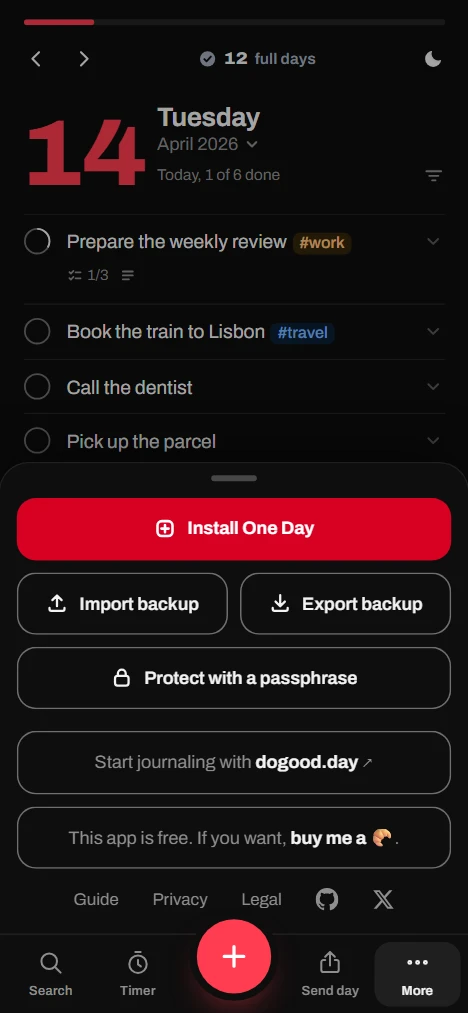
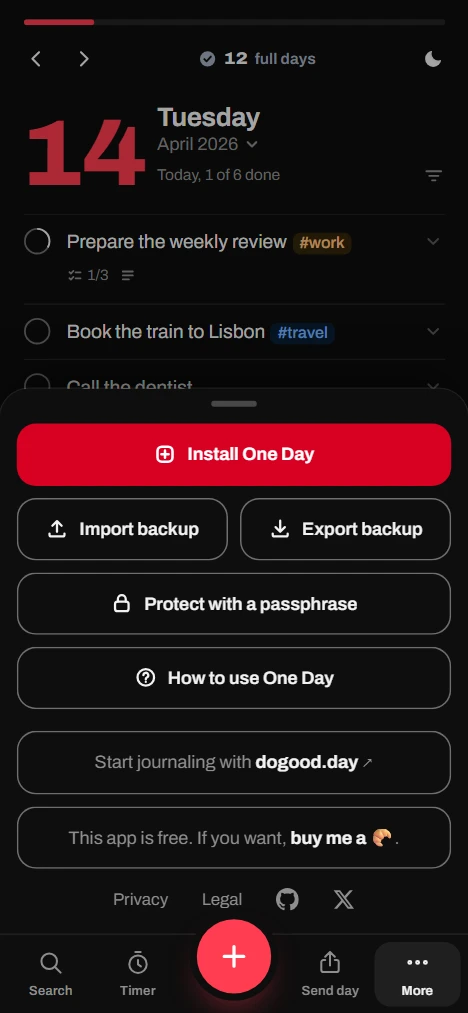
More on a phone: "How to use One Day" as a button of its own, under the backups and the lock
The guide was a small link among the legal ones at the bottom of More; it is now a button the width of the drawer,
with the guide's question mark, opening in the same window (back returns to the day). The links at the bottom keep
Privacy, Legal, GitHub and X. Nothing changes on a computer, where a floating window's drawer opens it in a tab.
The guide says so, its picture of More is retaken, and llms-full.txt follows.

diff --git a/public/app.js b/public/app.js
@@ -625,6 +625,7 @@ try {
   /* rows */
   const IC = {
     search: '<svg viewBox="0 0 16 16" aria-hidden="true"><circle cx="7.25" cy="7.25" r="4.5"/><path d="m10.6 10.6 3.15 3.15"/></svg>',
+    help: '<svg viewBox="0 0 16 16" aria-hidden="true"><circle cx="8" cy="8" r="5.8"/><path d="M6.32 6.48a1.72 1.72 0 1 1 2.44 1.56c-.48.22-.76.62-.76 1.12v.24M8 11.16v.04"/></svg>',
     tick: '<svg viewBox="0 0 12 12"><path d="M2.6 6.3 5 8.6l4.4-5"/></svg>',
     mv: '<svg viewBox="0 0 20 20"><path d="M4 10h11.5M11 5.5l4.5 4.5-4.5 4.5"/></svg>',
     rm: '<svg viewBox="0 0 20 20"><path d="m5.5 5.5 9 9m0-9-9 9"/></svg>',
@@ -6411,7 +6412,13 @@ try {
     const f = document.getElementById('foot'),
       promo = f && f.querySelector('.promo'),
       kofi = f && f.querySelector('.kofi'),
-      links = f ? [...f.querySelectorAll('nav a')].map(x => x.cloneNode(true).outerHTML).join('') : '',
+      // the guide has its own button above; the links at the bottom keep the legal pages and the source
+      links = f
+        ? [...f.querySelectorAll('nav a')]
+            .filter(x => !x.matches('.gd'))
+            .map(x => x.cloneNode(true).outerHTML)
+            .join('')
+        : '',
       // in a narrow floating window, what the bar let go of comes first
       held = pipNarrow(),
       dark = themeNow() === 'dark';
@@ -6425,6 +6432,9 @@ try {
       `<div class="sbk"><button type="button" class="sbk-b" data-act="import">${IC.up}<span>Import backup</span></button>` +
       `<button type="button" class="sbk-b" data-act="export">${IC.down}<span>${canTop ? 'Export backup' : 'Copy backup'}</span></button></div>` +
       (CAN_LOCK ? lockBtns() : '') +
+      // the guide, a button of its own under the backups and the lock: in this window on a phone (back returns to the
+      // day), in a tab of its own from a floating window
+      `<div class="sgd"><a class="sbk-b" href="guide/"${TOUCH ? '' : ' target="_blank" rel="noopener"'}>${IC.help}<span>How to use One Day</span></a></div>` +
       (promo
         ? `<a class="spromo" href="${esc(promo.href)}" target="_blank" rel="noopener" referrerpolicy="strict-origin">${promo.innerHTML}</a>`
         : '') +

diff --git a/public/app.css b/public/app.css
@@ -3166,6 +3166,14 @@ mark {
 #moreList > a:first-of-type {
   margin-top: 8px;
 }
+/* the guide: a button of its own, the width of the drawer, under the backups and the lock */
+.sgd {
+  display: grid;
+}
+.sgd .sbk-b {
+  color: inherit;
+  text-decoration: none;
+}
 .sbk-b {
   display: inline-flex;
   align-items: center;

diff --git a/public/sw.js b/public/sw.js
@@ -1,6 +1,6 @@
 /* One Day service worker: makes the app open instantly and work offline, even from a cold start.
    It only caches the app's own files, and its guide. It never sees your tasks, which live in localStorage. */
-const CACHE = 'one-day-v58';
+const CACHE = 'one-day-v59';
 const SHELL = [
   './',
   './app.css',

diff --git a/public/guide/index.html b/public/guide/index.html
@@ -163,7 +163,7 @@
             </aside>
             <p>
               To come back to this guide, click the <b>?</b> at the top right, above the day, on a computer; on a phone, it’s
-              <b>Guide</b> in More.
+              <b>How to use One Day</b> in More.
             </p>
           </section>
 
